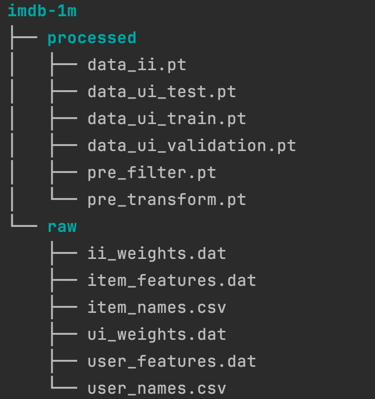
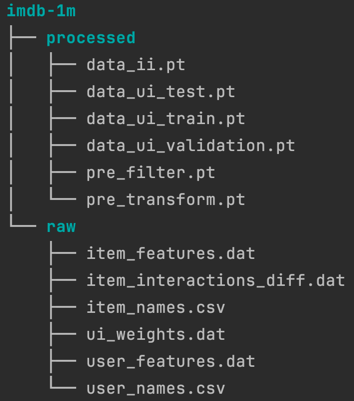
Fix weights between items in the imdb-1m dataset

Changed region(s): [[0.1243, 0.5414, 0.9944, 0.9925], [0.0621, 0.0, 0.839, 0.5414], [0.0311, 0.5414, 0.0932, 0.5714]]

diff --git a/dataset/data-splitting/data-splitting.py b/dataset/data-splitting/data-splitting.py
@@ -49,21 +49,21 @@ class IMDbDataset(Dataset):
     def __init__(self, root, transform=None, pre_transform=None, pre_filter=None):
         # Initialize matrices
         self.user_names, self.user_features, self.item_names = None, None, None
-        self.item_features, self.ii_weights, self.ui_weights = None, None, None
+        self.item_features, self.item_interactions_diff, self.ui_weights = None, None, None
 
         # Dimension of matrices (because the .dat file doesn't store dimensions of matrices)
         self.num_items, self.num_users, self.num_item_features = 3848, 6040, 31
 
         # Connections between items with a weight less than this threshold are ignored
-        self.ii_weight_threshold = 0.1
+        self.item_interactions_diff_threshold = 0.2
 
         super().__init__(root, transform, pre_transform, pre_filter)
 
     @property
     def raw_file_names(self):
         """ If these files exist in raw_dir, the download is not triggered """
-        return ['user_names.csv', 'user_features.dat', 'item_names.csv', 'item_features.dat', 'ii_weights.dat',
-                'ui_weights.dat']  # The order matters in the process() function.
+        return ['user_names.csv', 'user_features.dat', 'item_names.csv', 'item_features.dat',
+                'item_interactions_diff.dat', 'ui_weights.dat']  # The order matters in the process() function.
 
     @property
     def processed_file_names(self):
@@ -79,15 +79,15 @@ class IMDbDataset(Dataset):
         self.raw_file_content()
 
         """ item-item dataset """
-        ii_edge_index = np.asarray(np.where(self.ii_weights > self.ii_weight_threshold))
-        ii_edge_attr = self.ii_weights[ii_edge_index[0], ii_edge_index[1]]
+        ii_edge_index = np.asarray(np.where(self.item_interactions_diff > self.item_interactions_diff_threshold))
+        ii_edge_attr = self.item_interactions_diff[ii_edge_index[0], ii_edge_index[1]]
 
         data_ii = Data(
             x=torch.tensor(self.item_features),  # node features
             edge_index=torch.tensor(ii_edge_index),  # edges between items
             edge_attr=torch.tensor(ii_edge_attr)  # weights related to edges
         )
-        # Example: data_ii = Data(x=[3848, 31], edge_index=[2, 4455450], edge_attr=[4455450])
+        # Example: data_ii = Data(x=[3848, 31], edge_index=[2, 4464140], edge_attr=[4464140])
 
         torch.save(data_ii, f'{self.processed_dir}/data_ii.pt')
 
@@ -140,7 +140,7 @@ class IMDbDataset(Dataset):
         # data_ui_validation = Data(x=[9888, 31], edge_index=[2, 199374], edge_attr=[199374])
 
         # Delete matrices to reduce memory usage, as we don't need them anymore
-        del self.user_names, self.user_features, self.item_names, self.item_features, self.ii_weights, self.ui_weights
+        del self.user_names, self.user_features, self.item_names, self.item_features, self.item_interactions_diff, self.ui_weights
 
     def raw_file_content(self):
         """ Fetch data and set our matrices """
@@ -167,7 +167,7 @@ class IMDbDataset(Dataset):
         )
 
         # item-item weights
-        self.ii_weights = np.memmap(
+        self.item_interactions_diff = np.memmap(
             self.raw_paths[4],
             dtype=np.float32,
             mode='r',

diff --git a/dataset/data-splitting/README.md b/dataset/data-splitting/README.md
@@ -9,7 +9,7 @@ As an example, below are the steps used to divide the imdb-1m dataset into train
 
 - Step 1: item-item dataset
 > A graph dataset named data_ii containing the features below is created:<br/>
-> data_ii = Data(x=[3848, 31], edge_index=[2, 4455450], edge_attr=[4455450])
+> data_ii = Data(x=[3848, 31], edge_index=[2, 4464140], edge_attr=[4464140])
 > - x: item features
 > - edge_index: edges
 > - edge_attr: weights of edges
@@ -23,6 +23,6 @@ As an example, below are the steps used to divide the imdb-1m dataset into train
 ### Files tree<br/>
 The prepared matrices can be downloaded using bellow link:
 
-> - [imdb-1m-splitted](https://drive.google.com/file/d/1ZzaHJYxCo9gdAgVjpva6WbR2yeS0YzSm/view?usp=sharing)
+> - [imdb-1m-splitted](https://drive.google.com/file/d/1MN11SFOPDh3CSC3ERDGvEzZUF4C07HrX/view?usp=sharing)
 
 ![tree](images/tree-imdb-1m-splitted.png)
